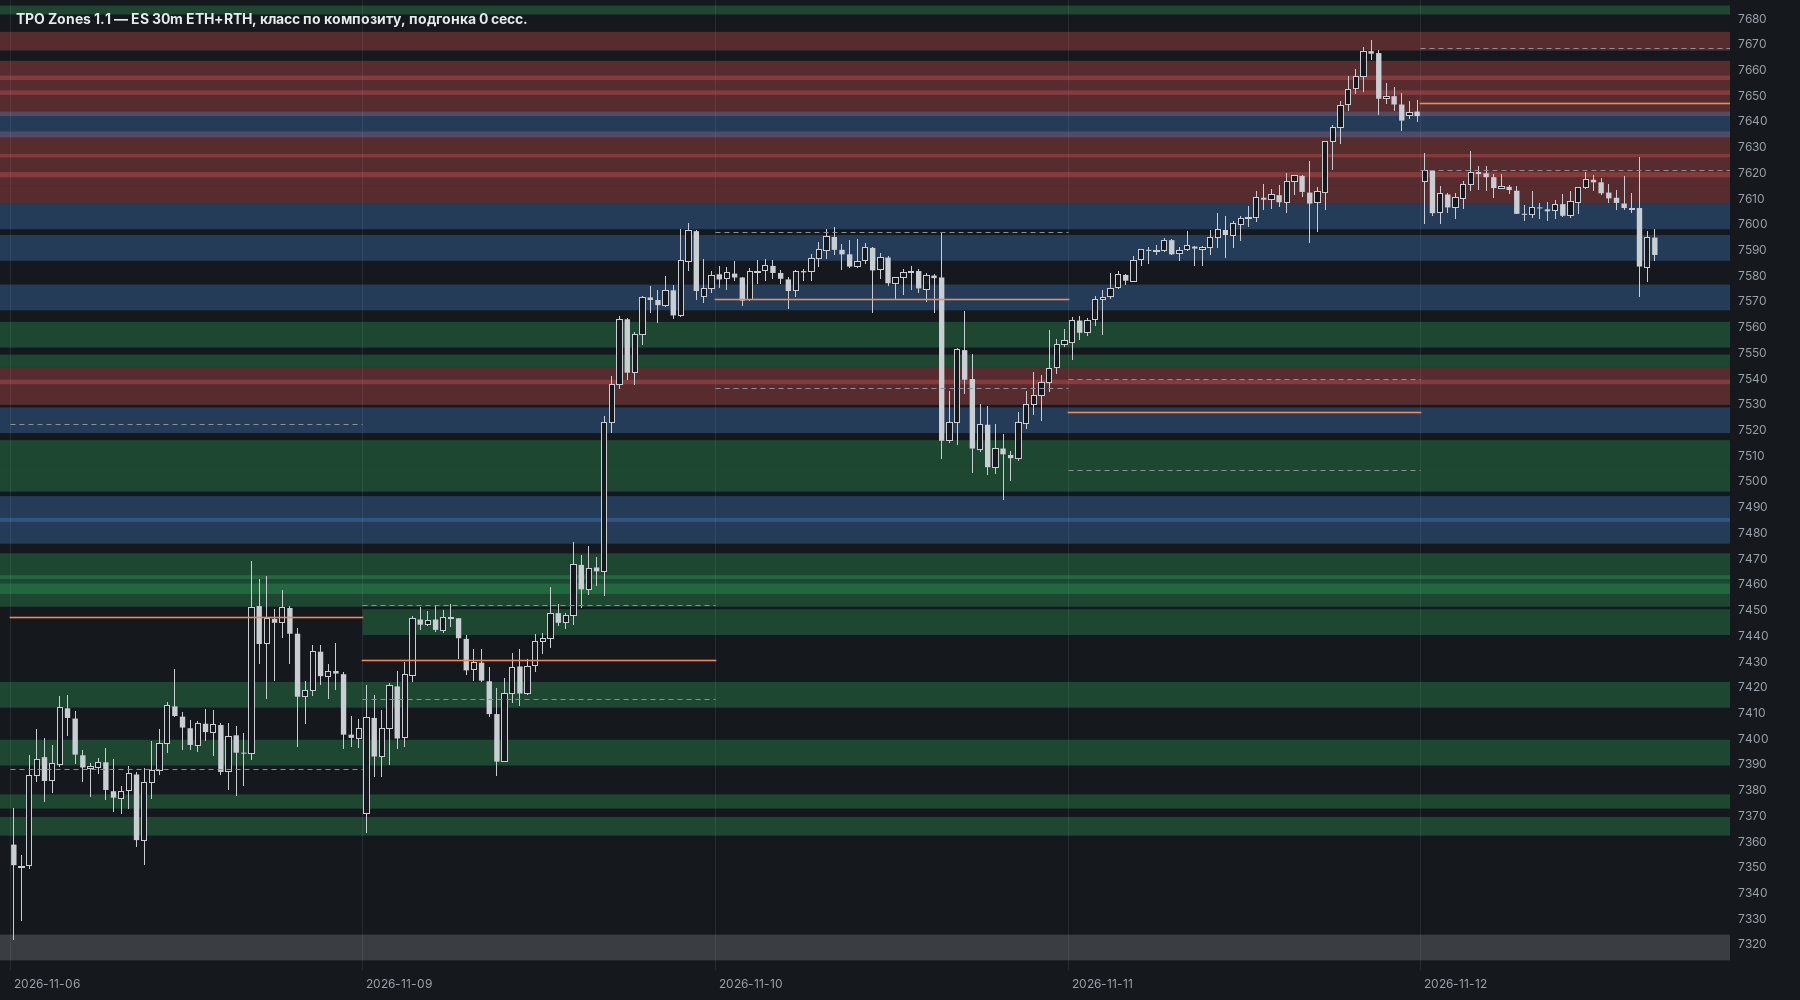
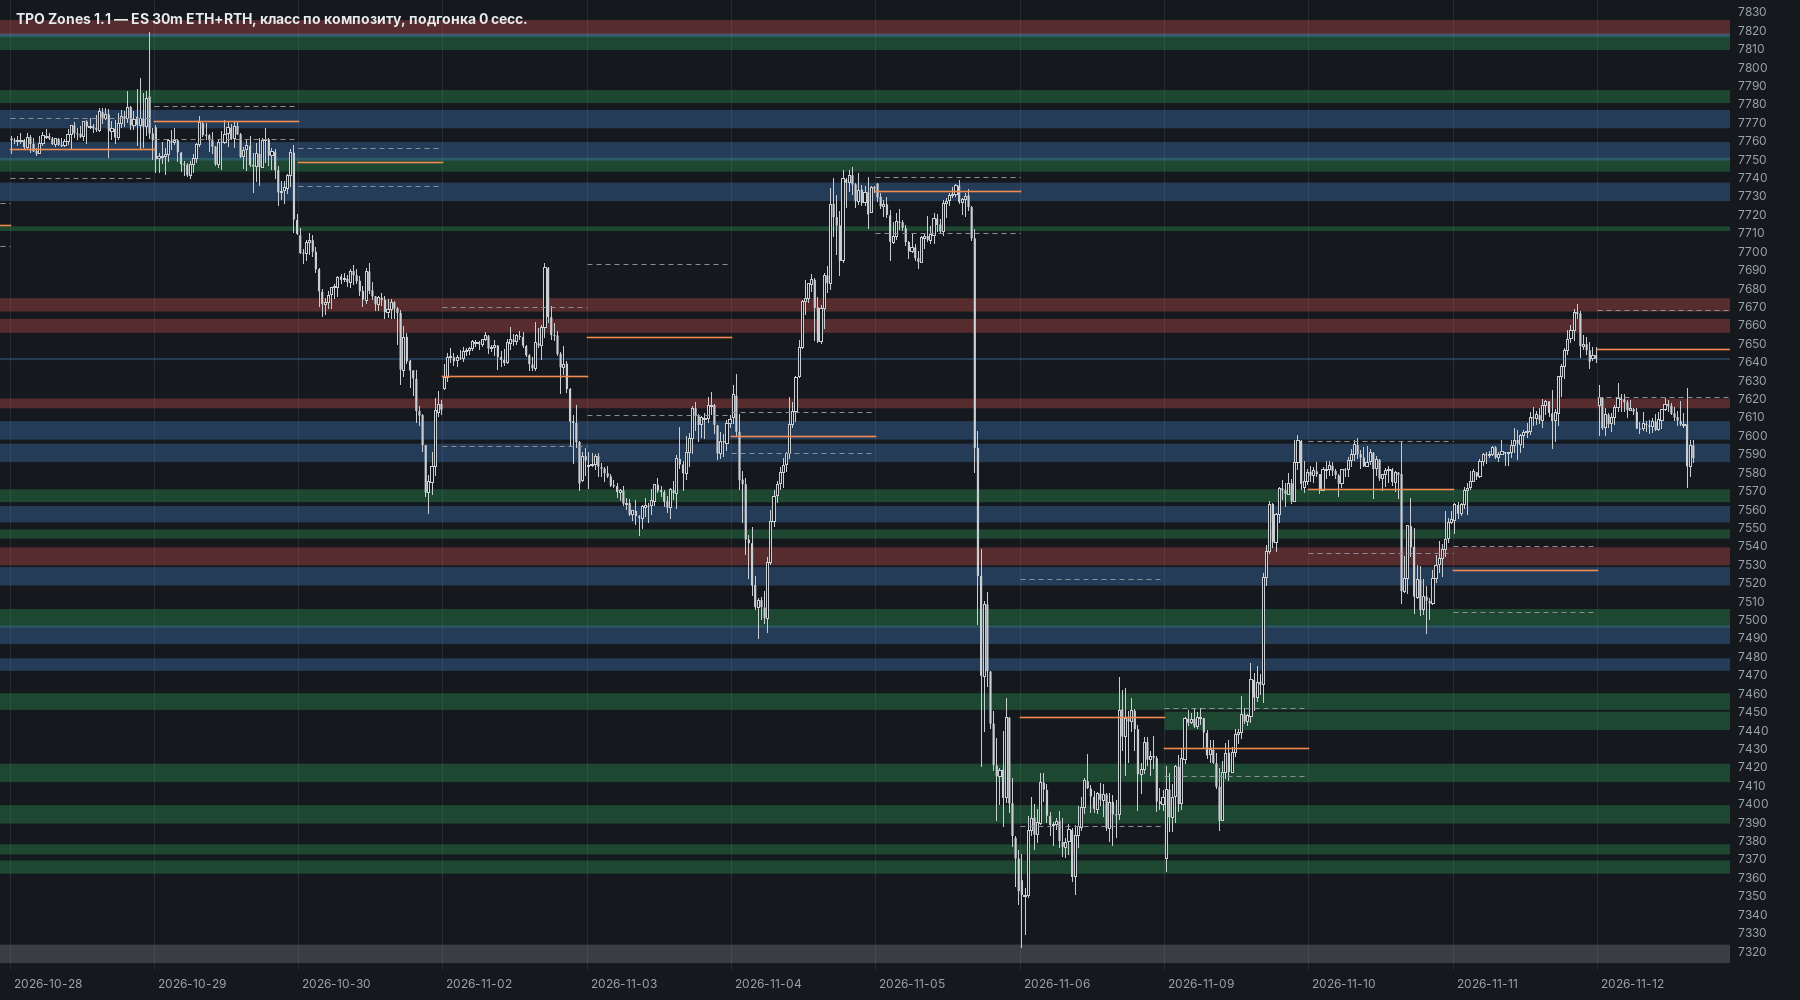
Study: composite core from session profiles, join same-kind neighbours
The core is the stretch covered by the HVN bands of at least half of the
composite's days (falls back to the composite band), capped at 10 points;
median core width drops from 10 to 7.75 points. A core touching an existing
one confirms it, and a support or resistance zone right next to an older
zone of the same kind is not drawn. No same-colour block wider than 10 points
remains; overlapping pairs per session go from 22.9 to 6.4. Alignment in this
mode can no longer widen a zone past the cap.

Claude-Session: https://claude.ai/code/session_01PTkoju45i5ZphCgSn4vnkL

diff --git a/motivewave/src/patterns/zones/ZoneEngine.java b/motivewave/src/patterns/zones/ZoneEngine.java
@@ -79,6 +79,9 @@ public final class ZoneEngine {
         public boolean compositeMode = false;     // класс зоны по положению в композите, а не по отторжениям
         public boolean coreByVa = false;          // ядро композита: VA (иначе HVN-полоса вокруг POC)
         public double coreAbsorb = 0.30;
+        public boolean coreFromSessions = true;   // ядро — где совпадают HVN-полосы ≥ половины дней композита
+        public double joinGapPts = 0.25;          // режим «по композиту»: зона того же вида ближе этого к более
+                                                  // старой — её подтверждение (ядро не создаётся / не рисуется); < 0 — выкл.
         public double zoneMaxWidthPts = 0;        // > 0: HVN-полоса дня и ядро композита шире — сужаются до окна
                                                   // с POC и максимумом TPO (на странице карты зон лимита нет)          // зона, на > 30% своей ширины лежащая на ядре, поглощается им
         public int minWickTicks = 2;
@@ -327,7 +330,8 @@ public final class ZoneEngine {
                 Zone best = null; double bestOv = -1;
                 for (Zone e : cores) {
                     double ov = overlap(ticks(e.lo, tick), ticks(e.hi, tick), lo, hi);
-                    if (ov >= p.mergeOverlapMin && ov > bestOv) { best = e; bestOv = ov; }
+                    boolean near = p.joinGapPts >= 0 && Math.max(e.lo, c.core.lo) - Math.min(e.hi, c.core.hi) <= p.joinGapPts + 1e-9;
+                    if ((ov >= p.mergeOverlapMin || near) && ov > bestOv) { best = e; bestOv = ov; }
                 }
                 if (best != null) { cc.get(best).add(c.av.toEpochDay()); c.core = best; }
                 else { cores.add(c.core); cc.put(c.core, new ArrayList<>()); }
@@ -397,6 +401,7 @@ public final class ZoneEngine {
             double w = z.hi - z.lo;
             double search = Math.max(p.alignSearchFrac * w, p.alignSearchMinPts);
             double maxW = Math.max(p.alignMaxWidthPts, p.alignMaxWidthMult * w);
+            if (p.compositeMode && p.zoneMaxWidthPts > 0) maxW = Math.min(maxW, Math.max(w, p.zoneMaxWidthPts));
             double[] r = alignZone(bars.subList(a, e), z.lo, z.hi, tick, search, mw, p.alignWPlain,
                     p.alignMinScore, p.alignMinWidthTicks * tick, maxW);
             z.blo = Math.rint(r[0] / tick) * tick; z.bhi = Math.rint(r[1] / tick) * tick;
@@ -460,6 +465,15 @@ public final class ZoneEngine {
                     }
                     if (hide) continue;
                 }
+                // зона вплотную к более старой видимой зоне того же вида — её подтверждение
+                if (p.compositeMode && p.joinGapPts >= 0 && v.st.kind != Kind.CORE) {
+                    for (Shown m : list) {
+                        if (m == v || m.st.kind != v.st.kind) continue;
+                        boolean older = m.z.avOrd() < v.z.avOrd() || (m.z.avOrd() == v.z.avOrd() && list.indexOf(m) < list.indexOf(v));
+                        if (older && Math.max(m.z.blo, v.z.blo) - Math.min(m.z.bhi, v.z.bhi) <= p.joinGapPts + 1e-9) { hide = true; break; }
+                    }
+                    if (hide) continue;
+                }
                 // зона из серого источника — подтверждение первородной зоны под ней
                 boolean secondary = v.st.kind == Kind.GREY || (p.compositeMode && v.z.k == K_GREY);
                 if (!secondary) { out.add(v); continue; }
@@ -488,7 +502,12 @@ public final class ZoneEngine {
             Zone core = new Zone();
             core.k = K_CORE; core.av = endDay; core.src = "core";
             int[] band = p.coreByVa ? new int[]{va[1], va[2]} : hvnBand(cp, va[0], p.hvnShare);
-            band = narrow(cp, band, va[0], (int) Math.round(p.zoneMaxWidthPts / p.tick));
+            int poc = va[0];
+            if (p.coreFromSessions && !p.coreByVa) {
+                int[] agree = sessionAgreement(cand, cp);
+                if (agree != null) { band = new int[]{agree[0], agree[1]}; poc = agree[2]; }
+            }
+            band = narrow(cp, band, poc, (int) Math.round(p.zoneMaxWidthPts / p.tick));
             core.lo = band[0] * p.tick; core.hi = band[1] * p.tick;
             c.core = core;
             comps.add(c);
@@ -503,6 +522,30 @@ public final class ZoneEngine {
             z.k = K_GREY; z.lo = band[0] * p.tick; z.hi = band[1] * p.tick;
             greyComp.add(z);
         }
+    }
+
+    /** Ядро по сессионным профилям: строки, накрытые HVN-полосами не меньше половины дней композита;
+     *  из таких участков — с наибольшим TPO композита. {lo, hi, строка максимума TPO} в тиках или null. */
+    static int[] sessionAgreement(List<Day> days, Profile cp) {
+        int n = cp.counts.length, need = (days.size() + 1) / 2;
+        int[] cov = new int[n + 1];
+        for (Day d : days) { cov[Math.max(0, d.bandLo - cp.low)]++; cov[Math.min(n, d.bandHi - cp.low + 1)]--; }
+        int[] best = null; long bestSum = -1;
+        int acc = 0, start = -1; long sum = 0;
+        for (int i = 0; i <= n; i++) {
+            acc += i < n ? cov[i] : 0;
+            boolean in = i < n && acc >= need;
+            if (in) { if (start < 0) { start = i; sum = 0; } sum += cp.counts[i]; }
+            else if (start >= 0) {
+                if (sum > bestSum) {
+                    int mx = start;
+                    for (int t = start; t < i; t++) if (cp.counts[t] > cp.counts[mx]) mx = t;
+                    best = new int[]{cp.low + start, cp.low + i - 1, cp.low + mx}; bestSum = sum;
+                }
+                start = -1;
+            }
+        }
+        return best;
     }
 
     /** Полоса [lo, hi] шире maxW тиков → окно шириной maxW внутри неё, содержащее POC, с максимумом TPO

diff --git a/motivewave/src/patterns/zones/TpoZonesStudy.java b/motivewave/src/patterns/zones/TpoZonesStudy.java
@@ -56,7 +56,7 @@ import patterns.zones.ZoneEngine.Result;
 public class TpoZonesStudy extends Study {
 
     // ---- ключи настроек
-    static final String ZONE_W = "zoneMaxW", MODE = "compositeMode", CORE_VA = "coreByVa", BAR30 = "bar30", HISTORY_DAYS = "historyDays", TZ = "tz", RTH_START = "rthStart",
+    static final String CORE_SESS = "coreFromSessions", JOIN_GAP = "joinGap", ZONE_W = "zoneMaxW", MODE = "compositeMode", CORE_VA = "coreByVa", BAR30 = "bar30", HISTORY_DAYS = "historyDays", TZ = "tz", RTH_START = "rthStart",
             RTH_END = "rthEnd", ETH_START = "ethStart", TICK = "tick", VA_PCT = "vaPct", HVN_SHARE = "hvnShare",
             HVN_MIN = "hvnMin", HVN_MAX = "hvnMax", GHVN_MIN = "greyHvnMin", GHVN_MAX = "greyHvnMax",
             MERGE_OV = "mergeOv", MERGE_W = "mergeW", COMP_DAYS = "compDays", GREY_HIST = "greyHist",
@@ -88,6 +88,8 @@ public class TpoZonesStudy extends Study {
         SettingGroup g = tab.addGroup("Класс зон");
         g.addRow(new BooleanDescriptor(MODE, "По положению в композите: выше ядра — сопротивление, ниже — поддержка (иначе — по отторжениям, как на странице)", true));
         g.addRow(new BooleanDescriptor(CORE_VA, "Ядро композита — VA (иначе HVN-полоса вокруг POC)", false));
+        g.addRow(new BooleanDescriptor(CORE_SESS, "Ядро по сессионным профилям: где совпадают HVN-полосы ≥ половины дней", true));
+        g.addRow(new DoubleDescriptor(JOIN_GAP, "Соседние зоны одного вида ближе, п. — подтверждение старой (−1 — выкл.)", 0.25, -1, 10, 0.25));
         g = tab.addGroup("Типы зон");
         g.addRow(new BooleanDescriptor(SHOW.get(Kind.HVN_S), Kind.HVN_S.title, true));
         g.addRow(new BooleanDescriptor(SHOW.get(Kind.HVN_R), Kind.HVN_R.title, true));
@@ -235,6 +237,8 @@ public class TpoZonesStudy extends Study {
         p.compositeMode = st.getBoolean(MODE, true);
         p.zoneMaxWidthPts = st.getDouble(ZONE_W, 10.0);
         p.coreByVa = st.getBoolean(CORE_VA, false);
+        p.coreFromSessions = st.getBoolean(CORE_SESS, true);
+        p.joinGapPts = st.getDouble(JOIN_GAP, 0.25);
         p.minWickTicks = st.getInteger(WICK, 2);
         p.sessions = st.getInteger(SESSIONS, 250);
         p.nearest = st.getInteger(NEAR, 6);

diff --git a/motivewave/README.md b/motivewave/README.md
@@ -30,6 +30,16 @@
   зона из серого источника, лежащая на первородной, тоже;
 - зоны вне всех композитов — серые, пока их не накроет композит.
 
+**Ядро по сессионным профилям** (по умолчанию): композит раскладывается на дни, ядро —
+участок, накрытый HVN-полосами не меньше половины дней композита (там, где сессии совпадают),
+с наибольшим TPO; если такого нет — HVN-полоса композита. Медиана ширины ядра 7.75 п. против 10.
+
+**Соседи склеиваются:** новое ядро, касающееся существующего (зазор ≤ 0.25 п.), — его
+подтверждение; зона поддержки / сопротивления вплотную к более старой видимой зоне того же
+вида не рисуется. Сплошных одноцветных блоков шире 10 п. на последних 250 сессиях нет;
+зон на сессию 56, пересекающихся пар 6.4. Подгонка по телам свечей в этом режиме зону
+не расширяет (≤ 10 п.), но добавляет зон и пересечений (11 на сессию), поэтому выключена.
+
 **Ширина зон — не больше 10 п.** (вкладка «Расчёт», 0 — без лимита). HVN-полоса дня и ядро
 композита шире 10 п. сужаются до окна в 10 п. с POC и максимумом TPO. Без лимита отдельные
 первородные зоны и ядра бывают до 30–40 п.: склейка дней ограничена 10 п., а полоса первого дня —
